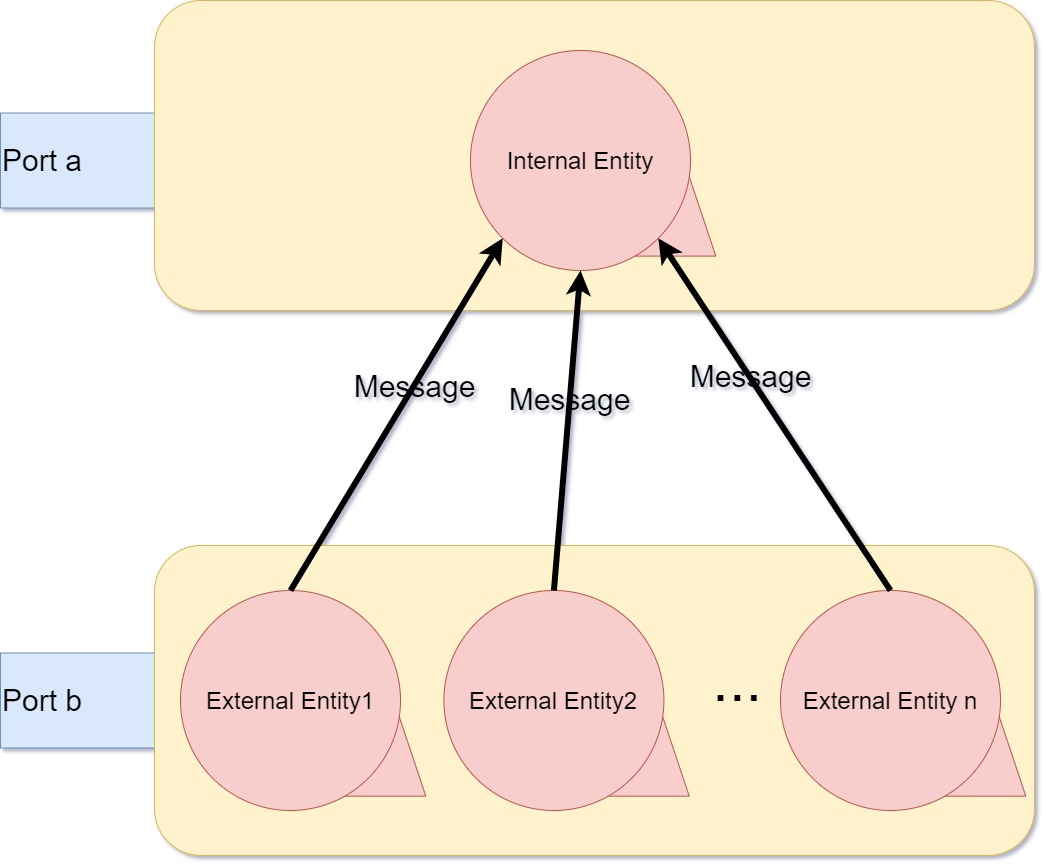
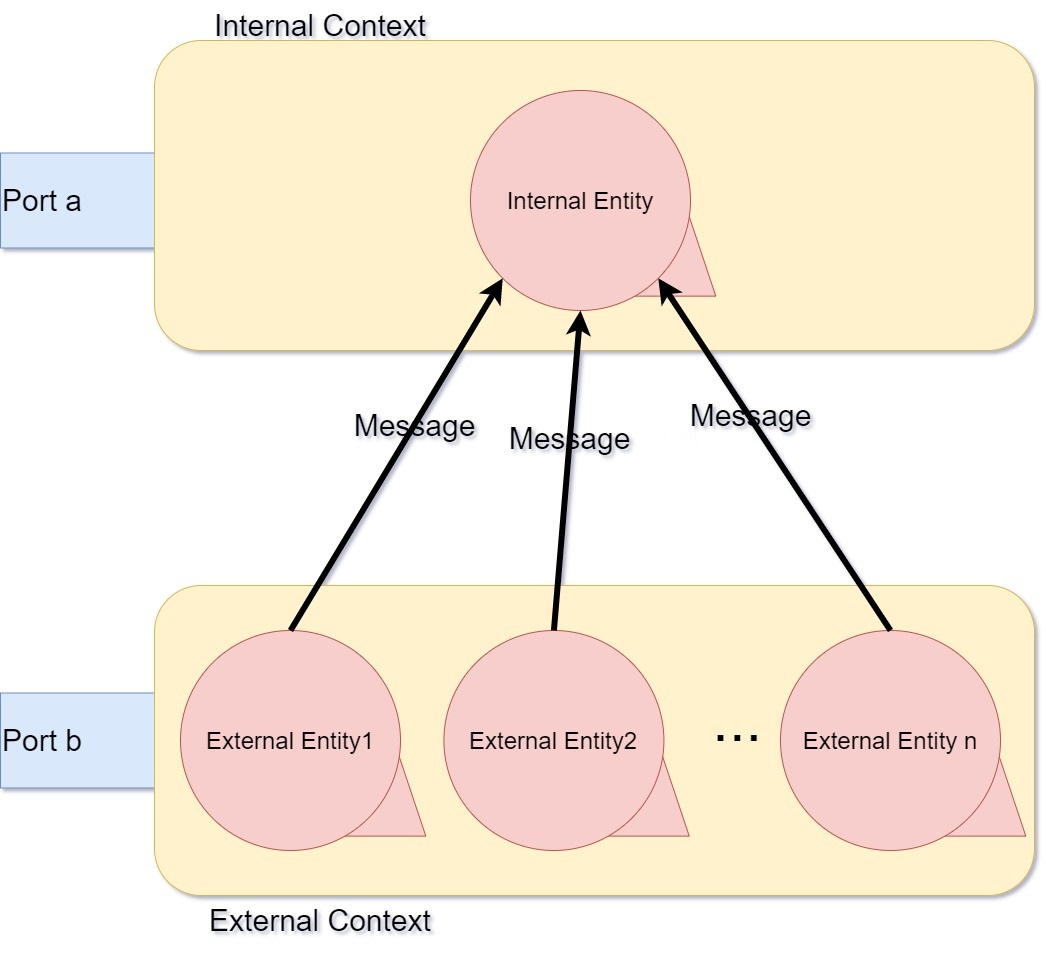
update

diff --git a/it.unibo.workshift/userDocs/templateToFill.html b/it.unibo.workshift/userDocs/templateToFill.html
@@ -221,7 +221,7 @@
 
 <head>
 
-    <title>TemplateToFill</title>
+    <title>Workshift</title>
 </head>
 
 <body>
@@ -269,7 +269,7 @@
             </li>
             <li>
                 <ks>Message</ks>: a simple message with the form specified in requirements <k>m1:m1(V)</k> or <k>
-                    m2:m2(V)</k>. Messages can be sended at every time.
+                    m2:m2(V)</k>. Messages can be sent at every time.
             </li>
             <li>
                 <ks>Sleeps</ks>: during this period, the machine do nothing.
@@ -290,24 +290,26 @@
             </li>
             <li>
                 <ks>Send</ks>: we only know that the external entity have to send message to the internal computer, but
-                is not specified specified the way with which the message will have to be sended.
+                is not specified specified the way with which the message will have to be sent.
             </li>
         </ul>
         <h3>A first <a href="https://en.wikipedia.org/wiki/User_story" target="web">user story</a></h3>
-        <!-- TODO come detto prima fare una prima ipotesi di gestione delle trasizioni tra i diversi stati (turni) -->
         <div class="remark">
             <p>
                 When the system starts up, according to the time of day the machine is in, a specific turn is activated.
                 Let's take it as an example, that turn at the start of machine is that of <k>morning</k>.
                 The machine in the <k>morning</k> is able to handle message of <k>m1</k> type. Messages are sent by
                 External entities at any moment of day, and those could be of <k>m1</k> or <k>m2</k> type.
-                If at certain moment a message of <k>m1</k> type arrive, machine that is in the <k>morning</k> state, can immediately
+                If at certain moment a message of <k>m1</k> type arrive, machine that is in the <k>morning</k> state,
+                can immediately
                 hadle this according to the decided behaviour. If instead there is a message of type <k>m2</k>, this
                 is saved in a queue and it will be handled after in the specific turn.
             </p>
             <p>
-                At the end of turn (if we are in morning turn, the end will be at 13:00) there will be a transaction of turn. Then machine will pass from the morning turn to that of aftenoon.
-                In the same way the machine will have a transaction at the end of afternoon turn, when it will pass to night turn.
+                At the end of turn (if we are in morning turn, the end will be at 13:00) there will be a transaction of
+                turn. Then machine will pass from the morning turn to that of aftenoon.
+                In the same way the machine will have a transaction at the end of afternoon, when it will pass to night
+                turn.
             </p>
         </div>
 
@@ -315,7 +317,48 @@
 
 
         <h2>Problem analysis</h2>
-        <!-- TODO fare i diagrammi di rappresentazione degli stati e il modello per visualizzare i diversi contesti nei quali esistono gli attori-->
+        <h3>Aspect noted</h3>
+        <ul>
+            <li>
+                There are three different period of the day, <ks>Morning</ks>, <ks>Afternoon</ks> and <ks>Night</ks>.
+                Any of this periods can be intended as different states in which our machine can be during the day.
+            </li>
+            <li>
+                It's not specified the specific moment in which the machine will be started. For this reason, at startup
+                the machine will take the state according to the time of the day in which it is.
+            </li>
+            <li>
+                Messages are sent from external entities without any kind of request by the internal entity, then
+                those will be sent with <k>Dispatch</k> mode.
+            </li>
+            <li>
+                Considering that messages are sent at any moment and without regulation on which type by the extenarl entities, those will be placed in a queue and handled in their specific turn.
+            </li>
+        </ul>
+        <h3>Logical Architecture</h3>
+        <table style="width:100%" border="1">
+            <tr>
+                <td style="width:40%">
+                    <!-- TODO spiegare che nell'architettura ci sono solo due contesti ma che in realtà potrebbero essercene anche di più, le entità esterne possono anche appartenere a più contesti-->
+                    <!-- l'architettura del nostro software è distribuita e non è locale-->
+                </td>
+                <td>
+                    <center><img src="img/Modello.jpg" width="40%" height="40%"></center>
+                </td>
+            </tr>
+        </table>
+        <h3>State Model</h3>
+        <table style="width:100%" border="1">
+            <tr>
+                <td style="width:40%">
+                    adsadadsa
+                </td>
+                <td>
+                    <center><img src="img/StatiProgetto.jpg" width="50%" height="50%"></center>
+                </td>
+            </tr>
+        </table>
+        
         <!-- TODO spiegare il fatto che si utilizzerà un linguaggio di modellazione qak (studiare problemi che questo comporta)-->
         <!-- per come intendo io il problema, dallo stato s0 iniziale, secondo il momento della giornato avviene una transizione nello stato specifico, 
         ad esempio s1 se mattina, s2 se pomeriggio, se sera/notte nello stato s3. 
